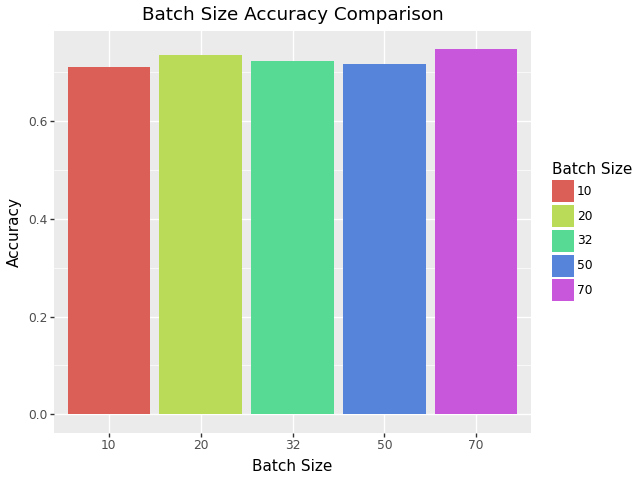
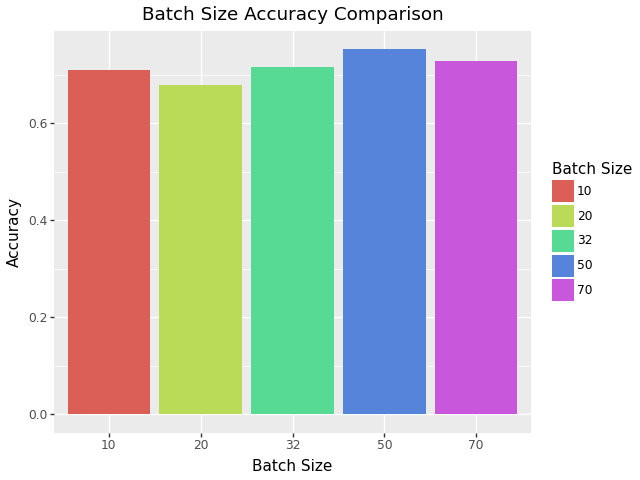
more graphing

Changed region(s): [[0.0938, 0.0938, 0.8125, 0.1875], [0.0312, 0.4375, 0.0938, 0.4688], [0.0312, 0.25, 0.0938, 0.2812]]

diff --git a/origa_processing.py b/origa_processing.py
@@ -11,7 +11,7 @@ import PIL.Image
 import pprint
 from plotnine import *
 
-itype = "cropped"
+itype = "square"
 
 directory = "ORIGA_" + itype + "_sorted"
 batch_size = 32
@@ -121,32 +121,6 @@ def train_model(model, training, testing, epochs):
         epochs=epochs, 
         callbacks=[csv_logger]
     )
-
-def lab8_cnn(training_X, training_y):
-    # get the shape of each image so the the first layer knows what inputs it will receive
-    image_shape = training_X.shape[1:]
-
-    # if the image was grayscale, add a 1 to the end of the shape to make it 3D
-    if len(image_shape) == 2:
-        image_shape = (image_shape[0], image_shape[1], 1)
-
-    # get the number of possible labels (since this is a classification task)
-    num_labels = len(np.unique(testing_y))
-    
-    # create the layers
-    conv1 = tf.keras.layers.Conv2D(16, (3, 3), activation = "relu", input_shape=image_shape)
-    pool1 = tf.keras.layers.MaxPooling2D((2, 2))
-    flat = tf.keras.layers.Flatten()
-    dense = tf.keras.layers.Dense(128)
-    out = tf.keras.layers.Dense(num_labels)
-
-    # convert the layers into a neural network model
-    layers = [conv1, pool1, flat, dense, out]    
-    # layers = [conv1, pool1, conv2, flat, dense, out]    
-    # layers = [conv1, pool1, conv2, pool2, conv3, flat, dense, out]    
-    network = tf.keras.models.Sequential(layers)
-
-    return network
 
 def train_network(network, training_X, training_y, epochs):
     # create the algorithm that learns the weight of the network (with a learning rate of 0.0001)
@@ -261,9 +235,9 @@ def compare_batch_size():
 
 
 #Plot accuracies comparing batch size
-bs_comp_df = pd.read_csv("batch_size_comparison_ORIGA_cropped.csv")
+bs_comp_df = pd.read_csv("batch_size_comparison_ORIGA_" + itype + ".csv")
 bs_comp_df["Batch Size"] = bs_comp_df["Batch Size"].astype(str)
-plot_bars(bs_comp_df, "Batch Size", "Accuracy", "Batch Size", "Batch Size Accuracy Comparison",  "bs_comparison.png")
+plot_bars(bs_comp_df, "Batch Size", "Accuracy", "Batch Size", "Batch Size Accuracy Comparison " + itype,  "bs_comparison_" + itype + ".png" )
 
 # Single Run
 # data = tf.keras.utils.image_dataset_from_directory(
